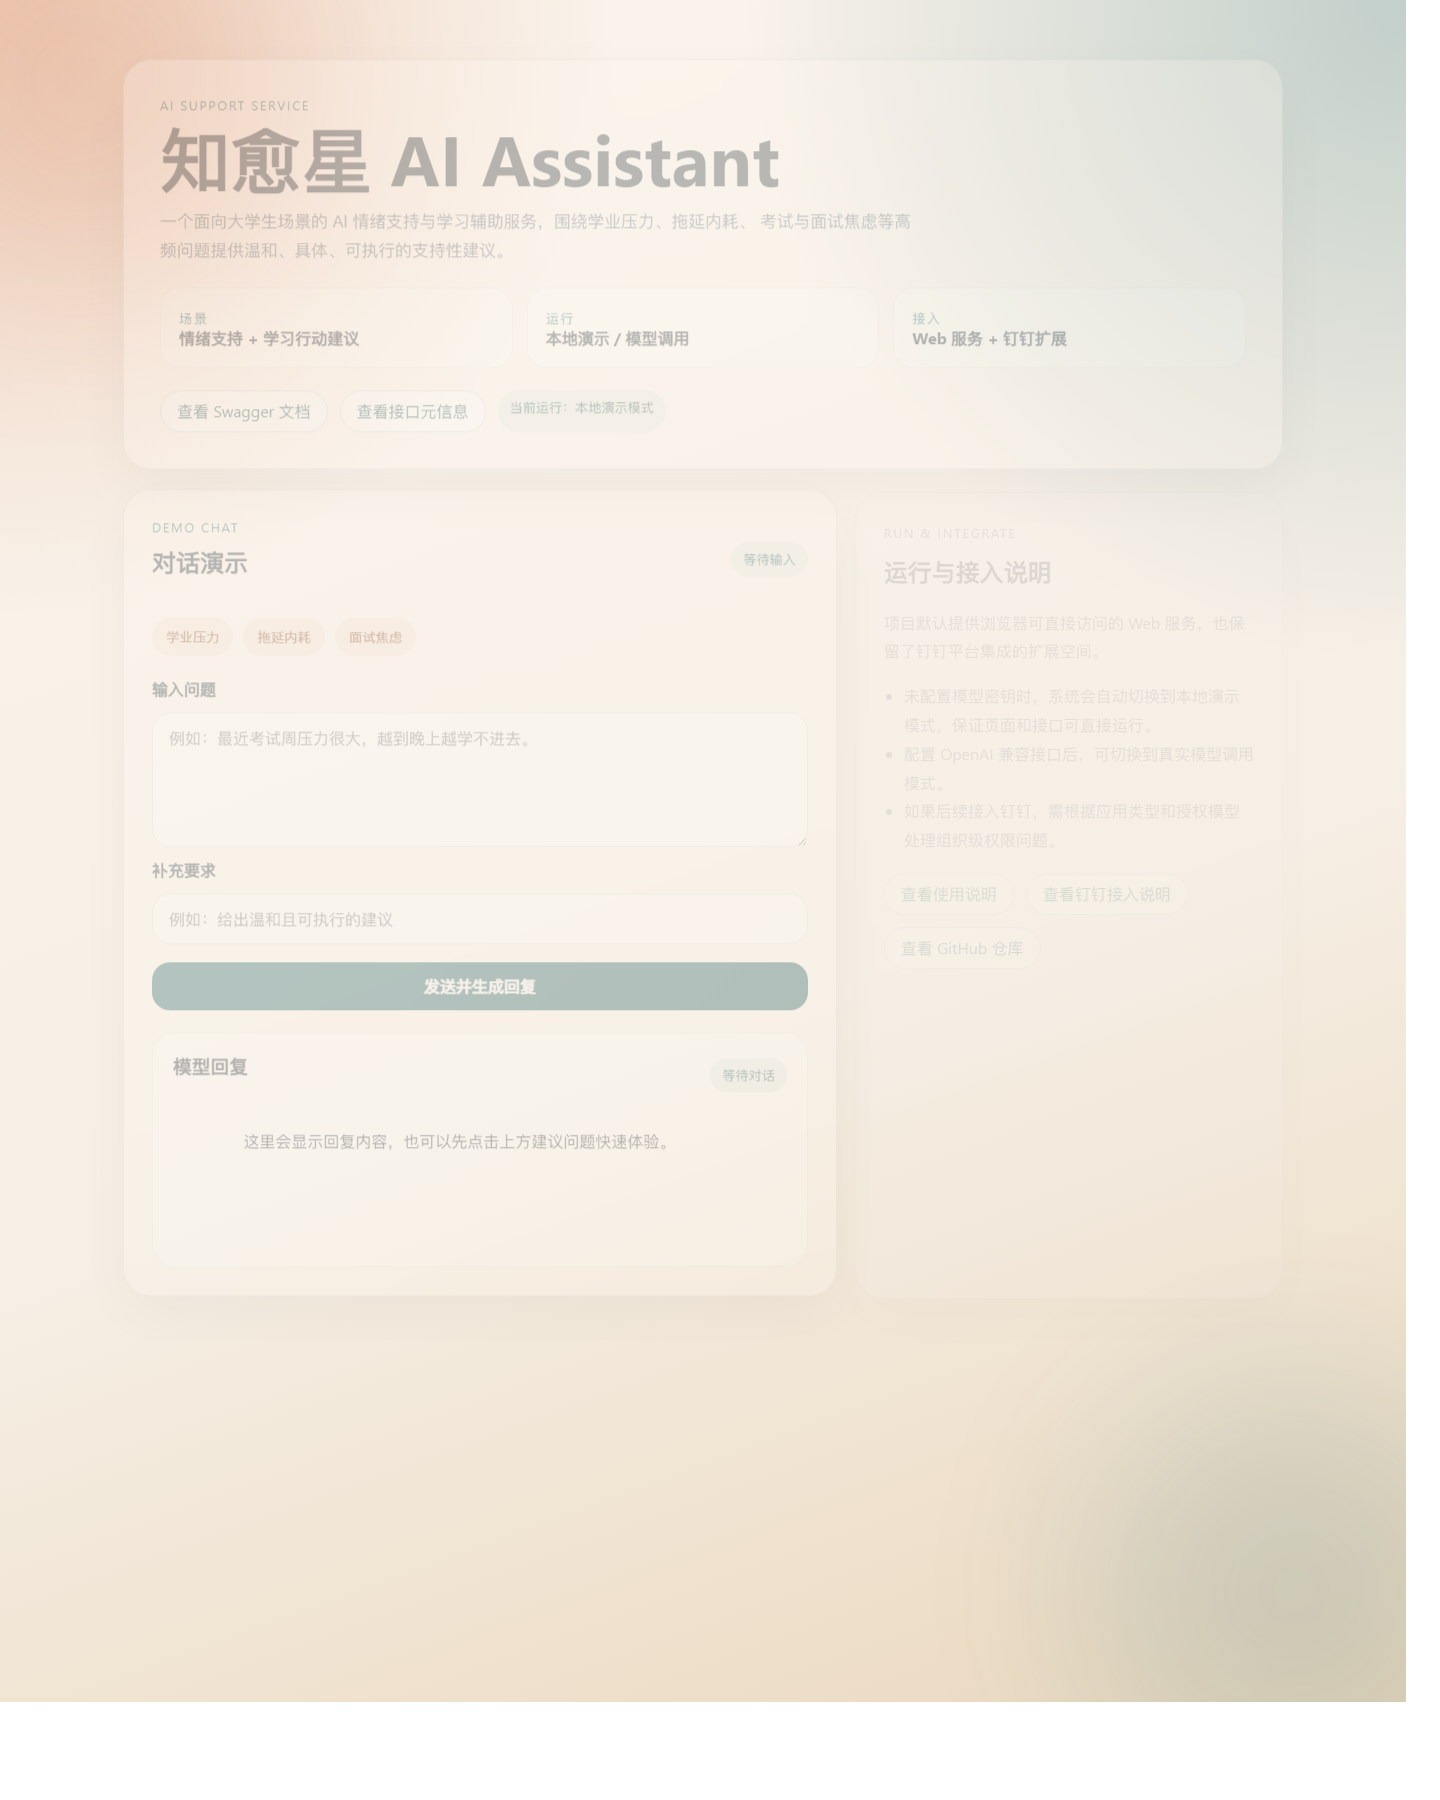
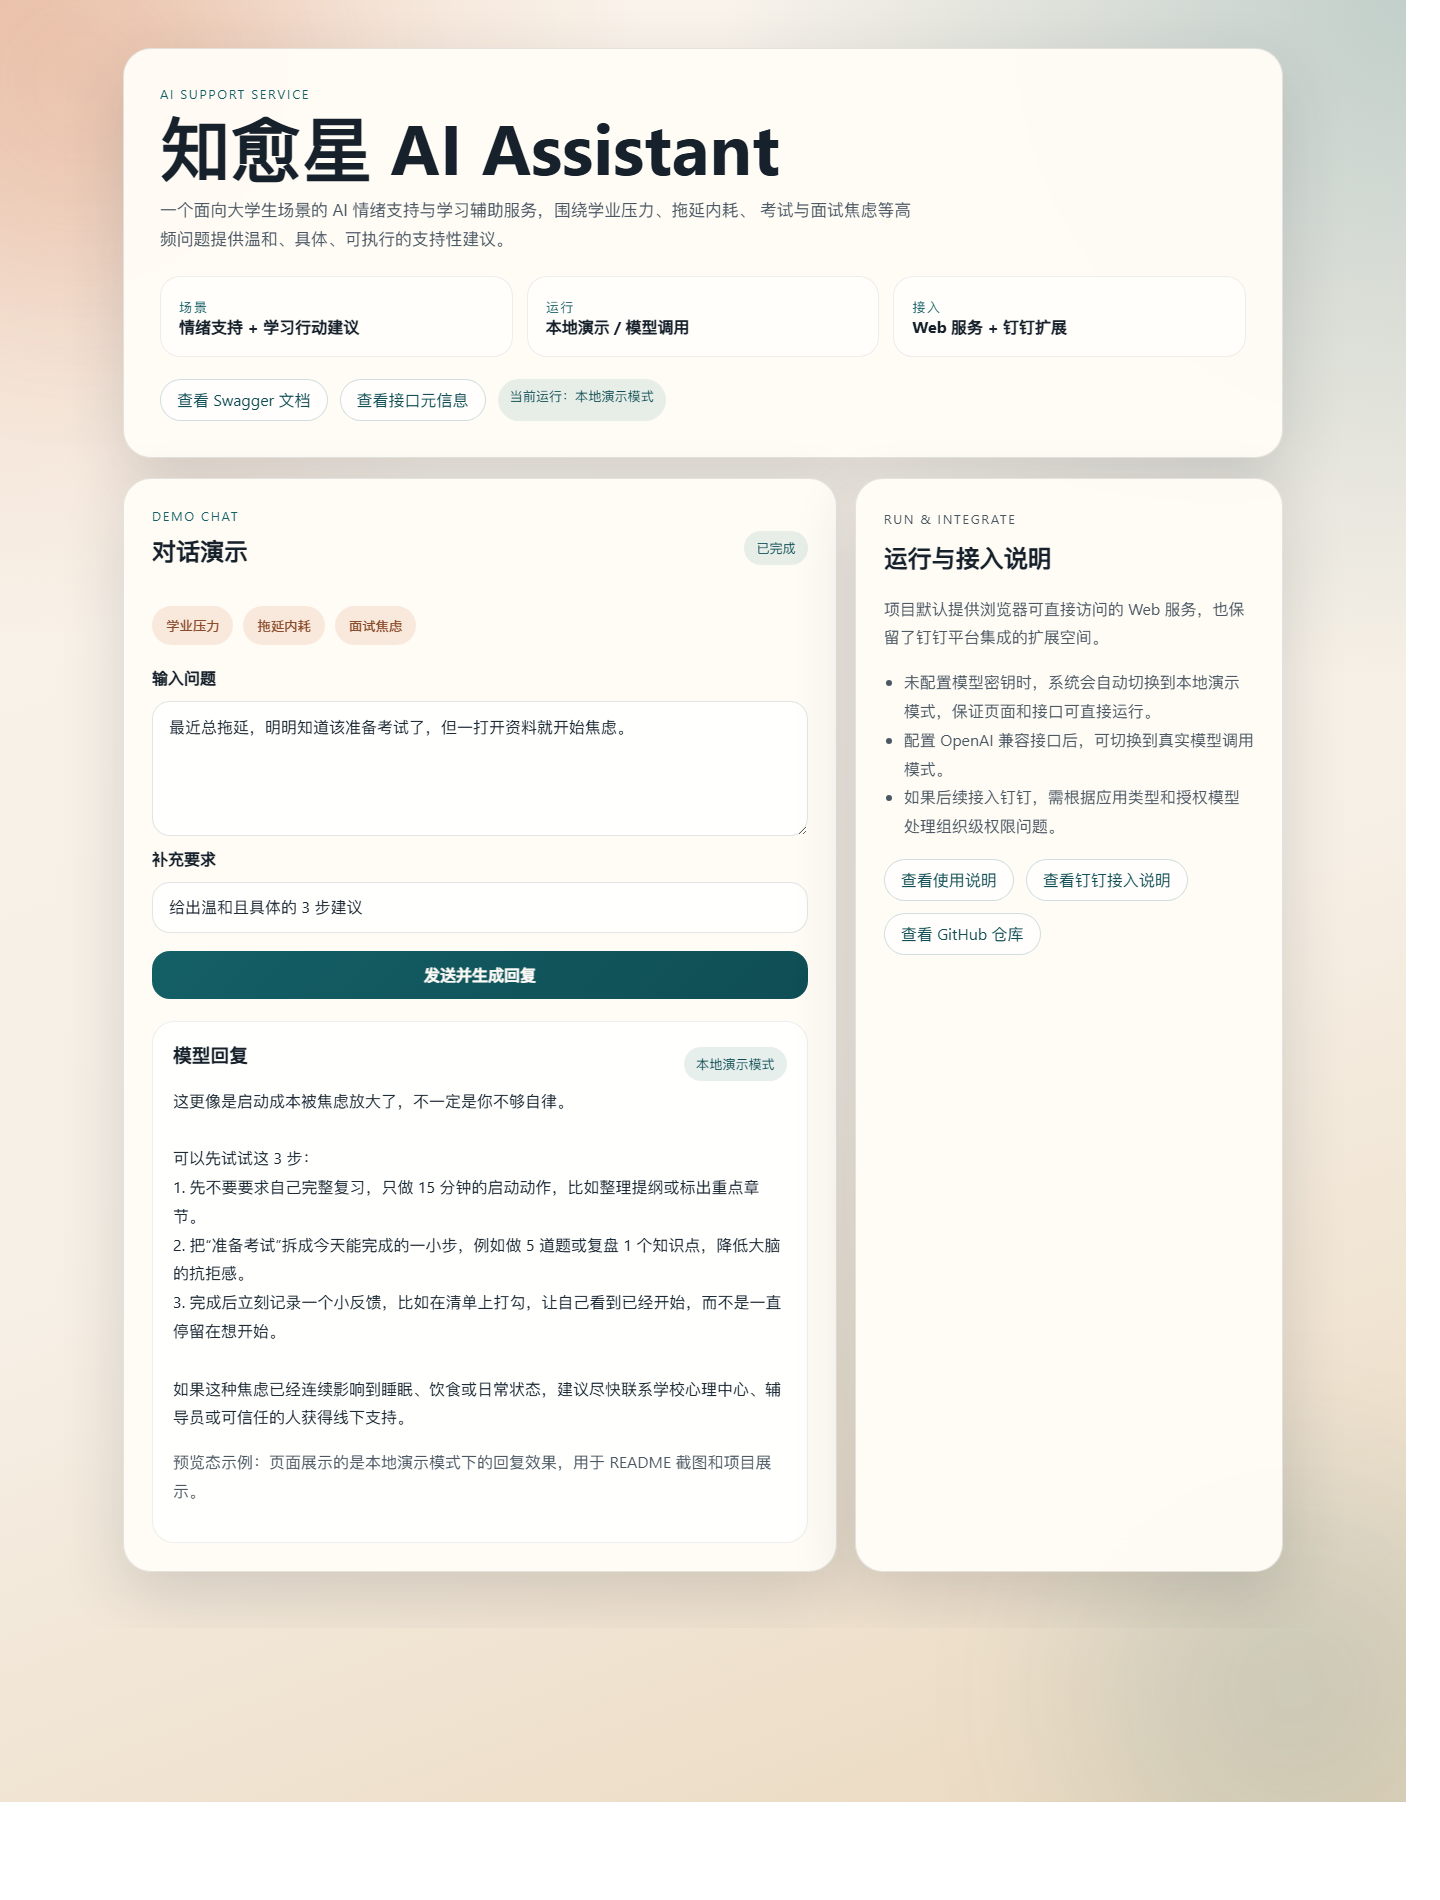
Improve web preview screenshot

Changed region(s): [[0.0625, 0.0, 0.9062, 0.84], [0.3438, 0.3733, 0.4375, 0.4044], [0.5312, 0.28, 0.5625, 0.3111]]

diff --git a/static/app.js b/static/app.js
@@ -7,6 +7,23 @@ const statusBadge = document.getElementById("status-badge");
 const submitButton = document.getElementById("submit-button");
 const runtimeBadge = document.getElementById("runtime-badge");
 const responseMode = document.getElementById("response-mode");
+const pageParams = new URLSearchParams(window.location.search);
+
+function applyPreviewState() {
+  if (pageParams.get("preview") !== "1") {
+    return;
+  }
+
+  document.body.classList.add("preview-capture");
+  messageInput.value = "最近总拖延，明明知道该准备考试了，但一打开资料就开始焦虑。";
+  hintInput.value = "给出温和且具体的 3 步建议";
+  responseText.textContent =
+    "这更像是启动成本被焦虑放大了，不一定是你不够自律。\n\n可以先试试这 3 步：\n1. 先不要要求自己完整复习，只做 15 分钟的启动动作，比如整理提纲或标出重点章节。\n2. 把“准备考试”拆成今天能完成的一小步，例如做 5 道题或复盘 1 个知识点，降低大脑的抗拒感。\n3. 完成后立刻记录一个小反馈，比如在清单上打勾，让自己看到已经开始，而不是一直停留在想开始。\n\n如果这种焦虑已经连续影响到睡眠、饮食或日常状态，建议尽快联系学校心理中心、辅导员或可信任的人获得线下支持。";
+  responseMeta.textContent =
+    "预览态示例：页面展示的是本地演示模式下的回复效果，用于 README 截图和项目展示。";
+  responseMode.textContent = "本地演示模式";
+  statusBadge.textContent = "已完成";
+}
 
 async function loadRuntimeMeta() {
   try {
@@ -79,4 +96,5 @@ form.addEventListener("submit", async (event) => {
   }
 });
 
+applyPreviewState();
 loadRuntimeMeta();

diff --git a/static/style.css b/static/style.css
@@ -26,6 +26,10 @@ body {
     linear-gradient(160deg, #faf4ec 0%, var(--bg) 58%, var(--bg-deep) 100%);
 }
 
+.preview-capture {
+  color: #16212b;
+}
+
 .page-shell {
   position: relative;
   overflow: hidden;
@@ -70,6 +74,13 @@ body {
   backdrop-filter: blur(16px);
 }
 
+.preview-capture .hero-card,
+.preview-capture .chat-card,
+.preview-capture .info-card {
+  background: rgba(255, 252, 246, 0.97);
+  box-shadow: 0 22px 64px rgba(38, 43, 53, 0.16);
+}
+
 .hero-card {
   padding: 36px;
   animation: rise-in 0.7s ease-out both;
@@ -104,6 +115,13 @@ h1 {
   font-size: 1.05rem;
   line-height: 1.7;
   color: var(--muted);
+}
+
+.preview-capture .hero-copy,
+.preview-capture .response-meta,
+.preview-capture .info-card p,
+.preview-capture .info-list {
+  color: #4b5864;
 }
 
 .hero-points {
@@ -268,6 +286,10 @@ input:focus {
   line-height: 1.8;
   color: var(--ink);
   white-space: pre-wrap;
+}
+
+.preview-capture .response-text {
+  color: #1c2a36;
 }
 
 .response-meta,
